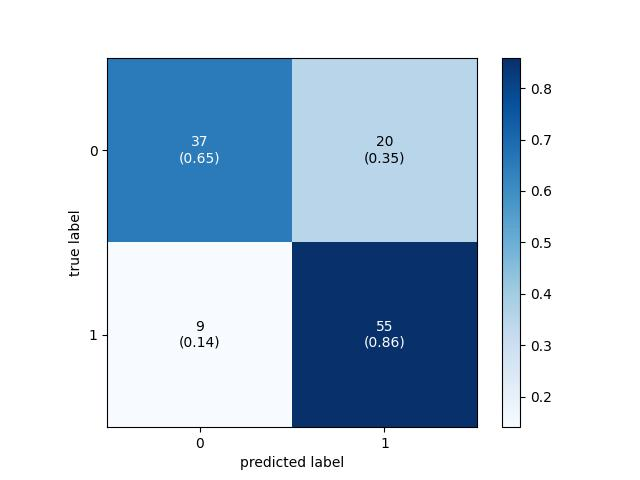
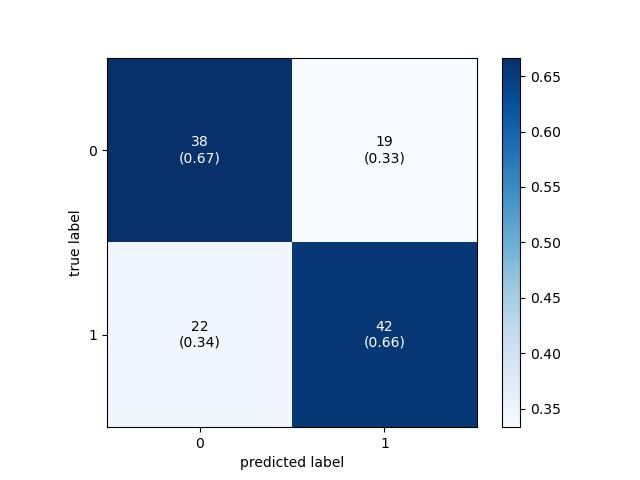
fix: remove income and education at diabetes

diff --git a/main.py b/main.py
@@ -30,33 +30,32 @@ coronary_model = ANN_Model(coronary_name, "chd", coronary_map, [])
 
 # Create a Diabetes Model
 diabetes_name = 'diabetes'
-diabetes_model = ANN_Model(diabetes_name, 'Diabetes_binary', [], [])
+diabetes_model = ANN_Model(diabetes_name, 'Diabetes_binary', [], [
+                           'Education', 'Income'])
 diabetes_features = [
-        'HighBP',
-        'HighChol',
-        'CholCheck',
-        'BMI',
-        'Smoker',
-        'Stroke',
-        'HeartDiseaseorAttack',
-        'PhysActivity',
-        'Fruits',
-        'Veggies',
-        'HvyAlcoholConsump',
-        'AnyHealthcare',
-        'NoDocbcCost',
-        'GenHlth',
-        'MentHlth',
-        'PhysHlth',
-        'DiffWalk',
-        'Sex',
-        'Age',
-        'Education',
-        'Income',
+    'HighBP',
+    'HighChol',
+    'CholCheck',
+    'BMI',
+    'Smoker',
+    'Stroke',
+    'HeartDiseaseorAttack',
+    'PhysActivity',
+    'Fruits',
+    'Veggies',
+    'HvyAlcoholConsump',
+    'AnyHealthcare',
+    'NoDocbcCost',
+    'GenHlth',
+    'MentHlth',
+    'PhysHlth',
+    'DiffWalk',
+    'Sex',
+    'Age'
 ]
 
 # Create a DCNN Model
-dcnn_model = DCNN_Model()
+# dcnn_model = DCNN_Model()
 # dcnn_model.predict('./test/melanocytic.jpg')
 # dcnn_model.predict('./test/actinic-keratosis.jpg')
 # dcnn_model.predict('./test/dermatofibroma.jpg')
@@ -66,25 +65,29 @@ dcnn_model = DCNN_Model()
 
 
 def make_route(name, features, model):
-    @app.route(f'/{name}', methods=['POST'], endpoint=name) 
+    @app.route(f'/{name}', methods=['POST'], endpoint=name)
     @cross_origin()
     def predict():
         data = request.get_json()
-        missing_feature = [feature for feature in features if feature not in data]
+        missing_feature = [
+            feature for feature in features if feature not in data]
         if missing_feature:
             abort(
                 404, description=f'Missing required feature: {", ".join(missing_feature)}')
-        convert_data = {key: [value] for key, value in data.items() if key in features}
+        convert_data = {key: [value]
+                        for key, value in data.items() if key in features}
         result = model.predict(convert_data)
         return jsonify({
             'status': f"success predict {name}",
-            'result': result.tolist()
-        }) 
+            'result': result.tolist()[0]
+        })
     predict.__name__ = name
-    
+
 # Routes List
 
-make_route(f'{coronary_name}', ['sbp','tobacco','ldl','adiposity','famhist','typea','obesity','alcohol','age'], coronary_model)
+
+make_route(f'{coronary_name}', ['sbp', 'tobacco', 'ldl', 'adiposity',
+           'famhist', 'typea', 'obesity', 'alcohol', 'age'], coronary_model)
 make_route(f'{diabetes_name}', diabetes_features, diabetes_model)
 # @app.route('/diabetes', methods=['POST'])
 # @cross_origin()

diff --git a/classification/ann_model.py b/classification/ann_model.py
@@ -78,7 +78,11 @@ class ANN_Model:
 
     def preprocess(self):
         # Drop Unused Columns
+        # self.print_df()
+
         self.df.drop(self.drop_list, axis=1, inplace=True)
+
+        # self.print_df()
 
         # Drop Duplicate Values
         self.df.drop_duplicates(inplace=True)
@@ -137,15 +141,16 @@ class ANN_Model:
         X_train, X_test, y_train, y_test = self.split_dataset()
 
         # Compiling Artificial Neural Networks
-        self.model.compile(optimizer ='adam', loss='binary_crossentropy', metrics = ['accuracy']) 
+        self.model.compile(
+            optimizer='adam', loss='binary_crossentropy', metrics=['accuracy'])
 
         # Training Dataset
-        self.model.fit(X_train, y_train, batch_size = 32, epochs = 10)
+        self.model.fit(X_train, y_train, batch_size=32, epochs=10)
 
         # Predicft
         predictions = self.model.predict(X_test)
 
-        binary_predictions = np.round(predictions) 
+        binary_predictions = np.round(predictions)
 
         cm = confusion_matrix(y_test, binary_predictions)
 

diff --git a/classification/dcnn_model.py b/classification/dcnn_model.py
@@ -36,7 +36,6 @@ class DCNN_Model:
       
   def make_model(self):
       skin_df = pd.read_csv('./dataset/HAM10000_metadata.csv')
-
       image_id_path_dict, skin_df = self.preprocessing_data(skin_df)
       self.modelling(skin_df)
 
